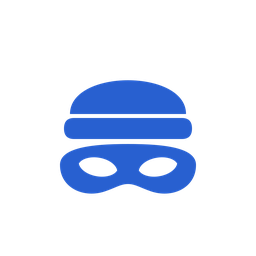
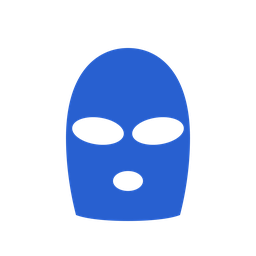
Branding: swap the mark to the balaclava head (#58)
Replaces the beanie + domino-mask design with the solid ski-mask
balaclava (flat crown, flared neck, angled eye holes + mouth as true
cutouts) per the owner's reference. Same asset paths, so every consumer
(window icon, exe, installer, AppImage AppDir icon, README) picks it up
with zero code changes.

Changed region(s): [[0.2188, 0.1875, 0.7812, 0.875]]

diff --git a/CHANGELOG.md b/CHANGELOG.md
@@ -6,7 +6,7 @@ All notable changes to this project are documented here. The format is based on 
 
 ### Added
 
-- **Brand identity: the robber-head logo.** A beanie + domino-mask burglar head as a flat single-color pictogram (eye holes are true cutouts, so the mark works on any background). Master SVGs live in `assets/branding/`; a multi-size `icon.ico` + `icon.png` ship inside the package. The icon now shows on the app window and taskbar, the `VideoKidnapper.exe` file and its Start Menu shortcut, the Inno Setup wizard, the Programs & Features entry, and the README header.
+- **Brand identity: the balaclava logo.** A solid ski-mask robber head as a flat single-color pictogram (eye holes and mouth are true cutouts, so the mark works on any background). Master SVGs live in `assets/branding/`; a multi-size `icon.ico` + `icon.png` ship inside the package. The icon now shows on the app window and taskbar, the `VideoKidnapper.exe` file and its Start Menu shortcut, the Inno Setup wizard, the Programs & Features entry, and the README header.
 - **Linux AppImage.** `VideoKidnapper-x86_64.AppImage` — download, `chmod +x`, run. PyInstaller one-dir bundle + FFmpeg (BtbN GPL build, source linked in the release notes) squashed by appimagetool; `AppRun` prepends the bundled FFmpeg to `PATH` so the existing lookup finds it unchanged. Built on ubuntu-22.04 for a glibc 2.35 floor: Ubuntu 22.04+, Debian 12+, Fedora 36+, Bazzite, SteamOS 3+. New workflow `appimage.yml` attaches it to every release; manual dispatch builds test artifacts from any branch.
 
 ## [1.3.0] — 2026-07-02